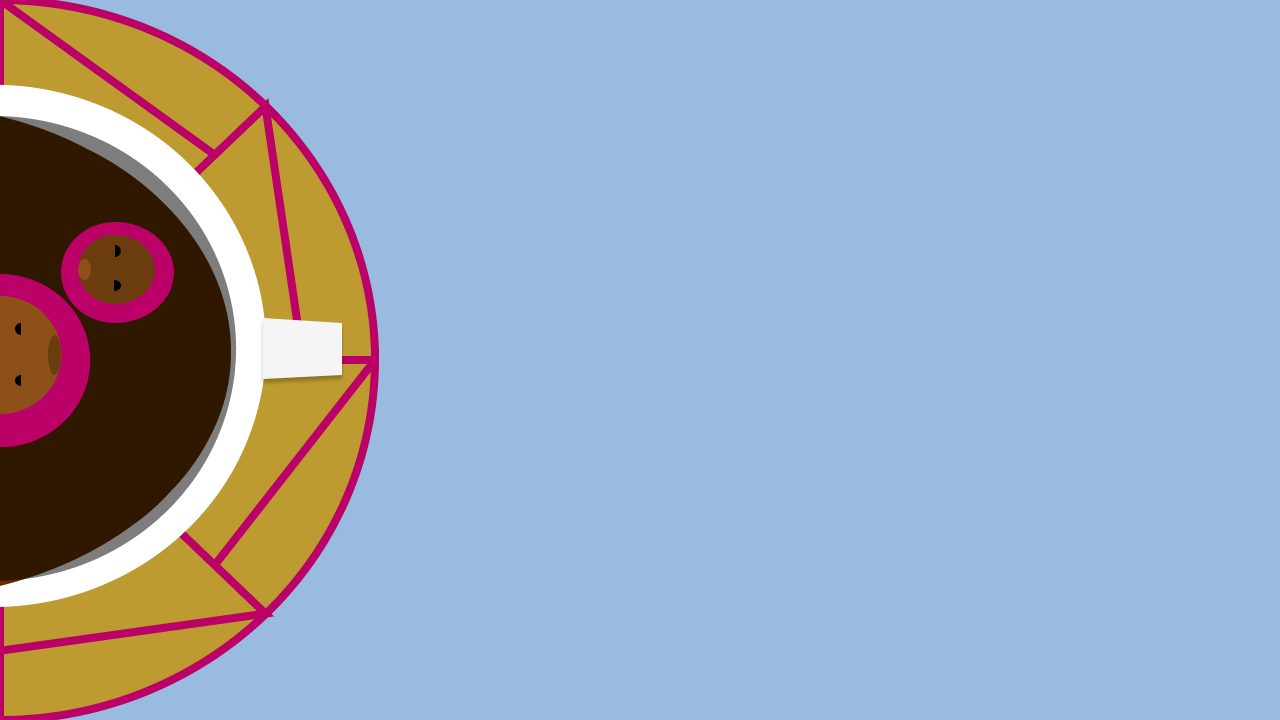
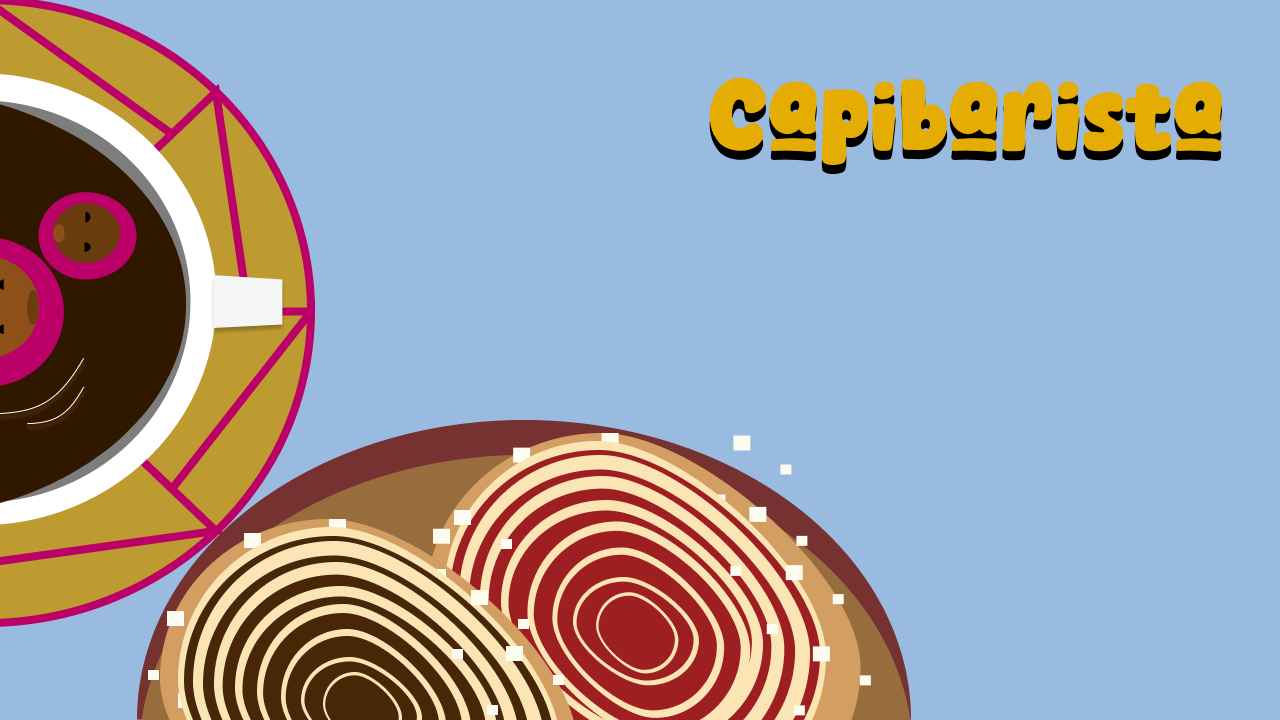
ajustes na tela de menu

diff --git a/src/jogo.c b/src/jogo.c
@@ -458,9 +458,9 @@ void desenharJogo(Jogo *jogo)
         DrawTexture(jogo->texturaMenu, 0, 0, WHITE);
 
 
-        Vector2 posJogar = {760, 310};
-        Vector2 posRanking = {760, 435};
-        Vector2 posCreditos = {760, 560};
+        Vector2 posJogar = {780, 240};
+        Vector2 posRanking = {780, 365};
+        Vector2 posCreditos = {780, 490};
 
         if (botaoImagemClicado(posJogar, jogo->btnNormalJogar, jogo->btnHoverJogar))
         {